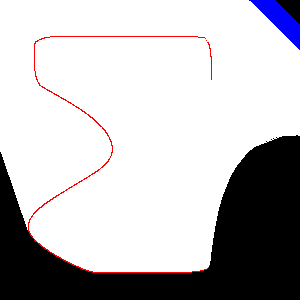
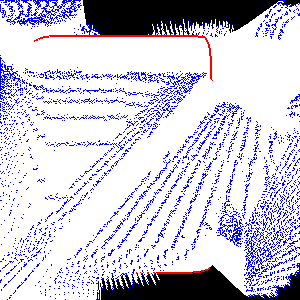
should print blue too now

diff --git a/CSCI3302_lab4/controllers/csci3302_lab4/csci3302_lab4.py b/CSCI3302_lab4/controllers/csci3302_lab4/csci3302_lab4.py
@@ -147,16 +147,20 @@ while robot.step(SIM_TIMESTEP) != -1:
         xx,yy = convert_lidar_reading_to_world_coord(i,lidar_sensor_readings[i])
         if not math.isnan(xx) and not math.isnan(yy):
             display.setColor(white)
-            x_end = xx * 300 + 150
-            y_end = xx * 300 - 100
-            display.drawLine(int (x_map), int (y_map), int(x_end), int(y_end)) #first filling in blank space
+            x_end = int(xx * 300 + 150)
+            y_end = int(yy * 300 - 100)
+            #display.drawLine(int (x_map), int (y_map), int(x_end), int(y_end)) #first filling in blank space
+            display.drawLine(x_map, y_map, x_end, y_end)
             display.setColor(blue)
-            display.drawLine(int(x_end), int(y_end), int(x_end*1.1), int(y_end*1.1)) #adding a bit of blue
+            display.drawPixel(x_end, y_end)
+            #display.drawLine(int(x_end), int(y_end), int(x_end*1.2), int(y_end*1.2)) #adding a bit of blue
             
           
     #drawing the robot pose so it's "ontop" of the other colors
     display.setColor(red)
     display.drawPixel(x_map, y_map) #x and y are already offset in method world_coord_to_map_coord
+    display.drawPixel(x_map+1, y_map+1)
+    display.drawPixel(x_map-1, y_map-1)
  
 
     
